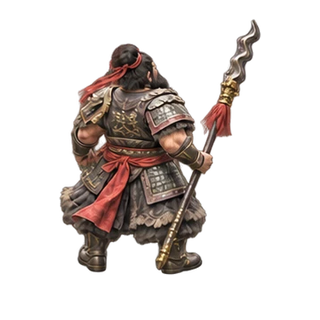
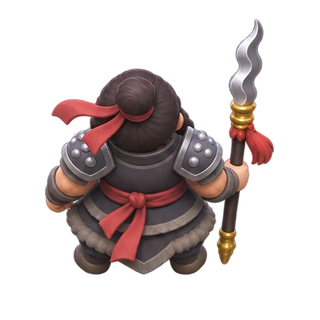
烽火守城：武将 1 换成国风 Q 版 3D 画风；站位拉开
- assets/_sheets/hero_1.png 换成新画风（诸葛亮、吕布、曹操、陆逊、关羽、张飞、周瑜、赵云、司马懿）并重新切图
- 切图：每格只留最大的那块图形，清掉相邻格子伸过来的兵器尖（之前关羽因此被缩小）
- 5 个站位往两边拉开（Q 版人物更宽，之前互相重叠），立绘 80 单位；美术素材规格里的脚底坐标同步更新

Claude-Session: https://claude.ai/code/session_01L3jguFYprBTa7gYpFHSxvP

diff --git a/sanguo-td/js/data.js b/sanguo-td/js/data.js
@@ -7,7 +7,7 @@
 const CFG = {
   W: 540, H: 960,          // 逻辑分辨率（竖屏 9:16）
   WALL_Y: 750,             // 城墙线，敌人走到这里开始攻城
-  SLOTS: [[118, 812], [196, 840], [270, 802], [344, 840], [422, 812]],   // 5 个武将站位（身体中心；脚底在其下方 29）
+  SLOTS: [[96, 812], [183, 842], [270, 800], [357, 842], [444, 812]],   // 5 个武将站位（身体中心；脚底在其下方 29）
   WAVES: 10,               // 每关波数
   BUFF_EVERY: 3,           // 每几波出一次三选一军令
   ENEMY_HP_SCALE: 1.8,     // 敌人血量总倍率（整体难度旋钮）

diff --git a/sanguo-td/js/assets.js b/sanguo-td/js/assets.js
@@ -13,7 +13,7 @@
 
 /* 立绘在战场上的大小与锚点（锚点 = 脚底中心在图片里的比例位置） */
 const SPRITE = {
-  hero:  { units: 84, ax: 0.5, ay: 0.86 },   // 84 单位 × 战场缩放 1.45 ≈ 122 逻辑像素的画布（人物本身约占八成）
+  hero:  { units: 80, ax: 0.5, ay: 0.86 },   // 80 单位 × 战场缩放 1.45 ≈ 116 逻辑像素的画布（人物本身约占八成）
   enemy: { units: 54, ax: 0.5, ay: 0.86 },   // 小兵画布约 54 逻辑像素，其他敌人按体型等比放大
 };
 

diff --git a/sanguo-td/tools/slice_sheets.py b/sanguo-td/tools/slice_sheets.py
@@ -55,7 +55,35 @@ def clear_bg(im, tol=24):
     return im
 
 
+def keep_main(im):
+    """只留格子里最大的那块：相邻格子伸过来的兵器尖、零碎噪点清掉。
+    按行、按列找被空白隔开的段，各留像素最多的一段。"""
+    a = im.getchannel('A')
+    w, h = im.size
+    px = a.load()
+    for axis in (0, 1):
+        n = h if axis == 0 else w
+        cnt = [sum(1 for k in range(w if axis == 0 else h) if (px[k, i] if axis == 0 else px[i, k]) > 24) for i in range(n)]
+        runs, start = [], None
+        for i, c in enumerate(cnt + [0]):
+            if c and start is None:
+                start = i
+            elif not c and start is not None:
+                runs.append((sum(cnt[start:i]), start, i)); start = None
+        if len(runs) > 1:
+            _, s0, s1 = max(runs)
+            for i in list(range(0, s0)) + list(range(s1, n)):
+                for k in range(w if axis == 0 else h):
+                    if axis == 0:
+                        px[k, i] = 0
+                    else:
+                        px[i, k] = 0
+    im.putalpha(a)
+    return im
+
+
 def standardize(im, dst, size=320, foot=275, height=256):
+    im = keep_main(im)
     box = im.getchannel('A').point(lambda a: 255 if a > 24 else 0).getbbox()
     if not box:
         return False

diff --git a/sanguo-td/美术素材规格.md b/sanguo-td/美术素材规格.md
@@ -21,7 +21,7 @@
 | 尺寸 | 1080 × 1920 |
 | 城墙线 | y = 1474：垛口上沿，敌人走到这条线上方停下攻城 |
 | 射程线 | y = 350：敌人越过后才会被攻击，线以上画远景和敌军来路 |
-| 武将脚底 | (236,1682) (392,1738) (540,1662) (688,1738) (844,1682)，这一片地面保持平整 |
+| 武将脚底 | (192,1682) (366,1742) (540,1658) (714,1742) (888,1682)，这一片地面保持平整 |
 | 界面遮挡 | 顶部 0–190、底部 1780–1920、左上三个圆形按钮，别放重要细节 |
 | 两侧 | 左右各约 96 像素敌人不会走到，适合画箭楼、旗帜、拒马 |
 
